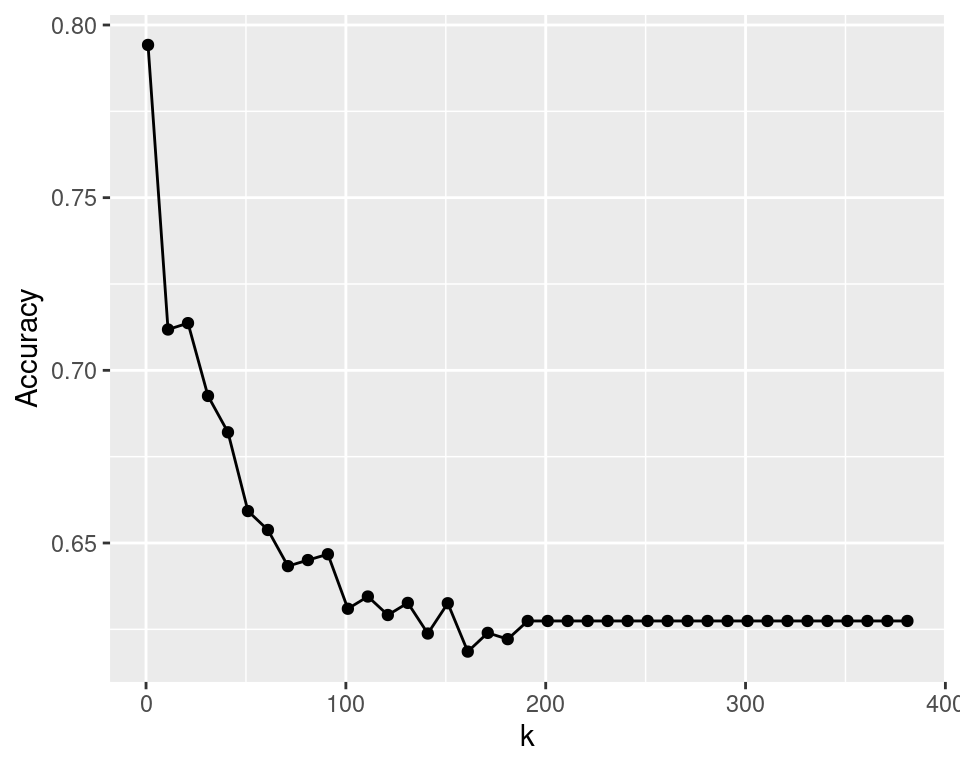
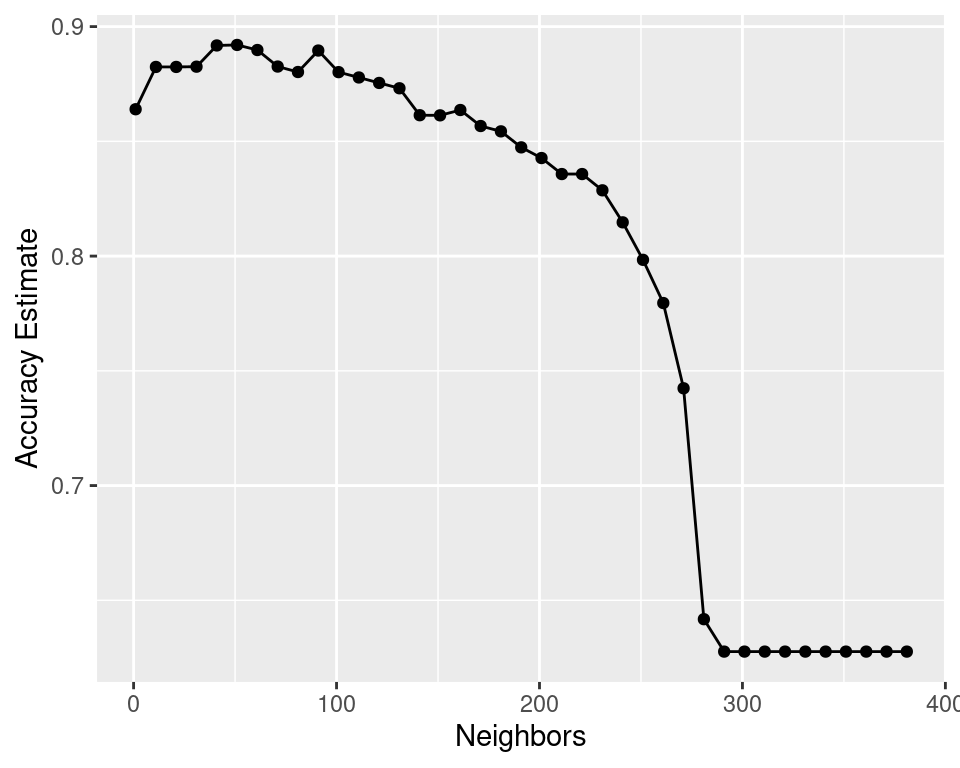
finished clsfcn II tidymodels update: tuning params

diff --git a/docs/classification-continued.html b/docs/classification-continued.html
@@ -26,7 +26,7 @@
 <meta name="author" content="Melissa Lee" />
 
 
-<meta name="date" content="2020-07-14" />
+<meta name="date" content="2020-07-15" />
 
   <meta name="viewport" content="width=device-width, initial-scale=1" />
   <meta name="apple-mobile-web-app-capable" content="yes" />
@@ -699,10 +699,11 @@ cross-validation. Cross-validation uses a random process to select how to partit
 <p>The <code>collect_metrics</code> function is used to aggregate the mean and <em>standard error</em>
 of the classifier’s validation accuracy across the folds. The standard error is
 a measure of how uncertain we are in the mean value. A detailed treatment of this
-is beyond the scope of this textbook; but roughly, if your estimated mean (that
+is beyond the scope of this chapter; but roughly, if your estimated mean (that
 the <code>collect_metrics</code> function gives you) is 0.88 and standard
 error is 0.02, you can expect the <em>true</em> average accuracy of the
-classifier to be somewhere between 0.86 and 0.90.</p>
+classifier to be somewhere roughly between 0.86 and 0.90 (although it may
+fall outside this range).</p>
 <div class="sourceCode" id="cb22"><pre class="sourceCode r"><code class="sourceCode r"><span id="cb22-1"><a href="classification-continued.html#cb22-1"></a>knn_fit <span class="op">%&gt;%</span><span class="st"> </span><span class="kw">collect_metrics</span>()</span></code></pre></div>
 <pre><code>## # A tibble: 2 x 5
 ##   .metric  .estimator  mean     n std_err
@@ -739,92 +740,99 @@ accuracy of our classifier is somewhere around 88%. Whether 88% is good or not
 depends entirely on the downstream application of the data analysis. In the
 present situation, we are trying to predict a tumour diagnosis, with expensive,
 damaging chemo/radiation therapy or patient death as potential consequences of
-misprediction. Hence, we’d like to do better than 88% for this application. In
-order to improve our classifier, we have one choice of parameter: the number of
+misprediction. Hence, we’d like to do better than 88% for this application.</p>
+<p>In order to improve our classifier, we have one choice of parameter: the number of
 neighbours, <span class="math inline">\(K\)</span>. Since cross-validation helps us evaluate the accuracy of our
 classifier, we can use cross-validation to calculate an accuracy for each value
 of <span class="math inline">\(K\)</span> in a reasonable range, and then pick the value of <span class="math inline">\(K\)</span> that gives us the
-best accuracy. In R, we can accomplish this <em>tuning</em> by passing a vector of
-values for <span class="math inline">\(K\)</span> to the <code>tuneGrid</code> argument of <code>train</code>.</p>
-<div class="sourceCode" id="cb26"><pre class="sourceCode r"><code class="sourceCode r"><span id="cb26-1"><a href="classification-continued.html#cb26-1"></a>train_control &lt;-<span class="st"> </span><span class="kw">trainControl</span>(<span class="dt">method=</span><span class="st">&quot;cv&quot;</span>, <span class="dt">number =</span> <span class="dv">10</span>)</span>
-<span id="cb26-2"><a href="classification-continued.html#cb26-2"></a>k =<span class="st"> </span><span class="kw">data.frame</span>(<span class="dt">k =</span> <span class="kw">c</span>(<span class="dv">1</span>, <span class="dv">3</span>, <span class="dv">5</span>, <span class="dv">7</span>, <span class="dv">9</span>, <span class="dv">11</span>, <span class="dv">13</span>, <span class="dv">15</span>, <span class="dv">17</span>))</span>
-<span id="cb26-3"><a href="classification-continued.html#cb26-3"></a></span>
-<span id="cb26-4"><a href="classification-continued.html#cb26-4"></a><span class="kw">set.seed</span>(<span class="dv">1234</span>)</span>
-<span id="cb26-5"><a href="classification-continued.html#cb26-5"></a>knn_model_cv_10fold &lt;-<span class="st"> </span><span class="kw">train</span>(<span class="dt">x =</span> X_train_total, <span class="dt">y =</span> Y_train_total, <span class="dt">method =</span> <span class="st">&quot;knn&quot;</span>, <span class="dt">tuneGrid =</span> k, <span class="dt">trControl =</span> train_control)</span>
-<span id="cb26-6"><a href="classification-continued.html#cb26-6"></a>knn_model_cv_10fold</span></code></pre></div>
-<pre><code>## k-Nearest Neighbors 
-## 
-## 569 samples
-##  11 predictor
-##   2 classes: &#39;M&#39;, &#39;B&#39; 
-## 
-## No pre-processing
-## Resampling: Cross-Validated (10 fold) 
-## Summary of sample sizes: 512, 513, 512, 512, 512, 512, ... 
-## Resampling results across tuning parameters:
-## 
-##   k   Accuracy   Kappa    
-##    1  0.7942248  0.5477059
-##    3  0.7312808  0.3896490
-##    5  0.7224138  0.3595184
-##    7  0.7048678  0.3140628
-##    9  0.6960926  0.2755558
-##   11  0.7100683  0.2998363
-##   13  0.6995711  0.2759814
-##   15  0.6995711  0.2706774
-##   17  0.7065898  0.2842655
-## 
-## Accuracy was used to select the optimal model using the largest value.
-## The final value used for the model was k = 1.</code></pre>
-<p>Although <code>caret</code> provides a selection of <span class="math inline">\(K=13\)</span> for us by maximizing the
-accuracy estimate, it is helpful regardless to visualize the accuracy as we
-increase <span class="math inline">\(K\)</span>. We can access the results from the cross-validation via
-the<code>results</code> attribute of the <code>train</code> object (our classifier).</p>
-<div class="sourceCode" id="cb28"><pre class="sourceCode r"><code class="sourceCode r"><span id="cb28-1"><a href="classification-continued.html#cb28-1"></a>accuracies &lt;-<span class="st"> </span>knn_model_cv_10fold<span class="op">$</span>results</span>
-<span id="cb28-2"><a href="classification-continued.html#cb28-2"></a>accuracies </span></code></pre></div>
-<pre><code>##    k  Accuracy     Kappa AccuracySD    KappaSD
-## 1  1 0.7942248 0.5477059 0.04541515 0.09755692
-## 2  3 0.7312808 0.3896490 0.04807517 0.10686014
-## 3  5 0.7224138 0.3595184 0.04046755 0.08472153
-## 4  7 0.7048678 0.3140628 0.03382200 0.06669857
-## 5  9 0.6960926 0.2755558 0.03932843 0.08751456
-## 6 11 0.7100683 0.2998363 0.02955304 0.07052050
-## 7 13 0.6995711 0.2759814 0.03129697 0.07865112
-## 8 15 0.6995711 0.2706774 0.03812284 0.09339909
-## 9 17 0.7065898 0.2842655 0.03884811 0.09727276</code></pre>
-<p>Now we can plot accuracy versus <span class="math inline">\(K\)</span>:</p>
-<div class="sourceCode" id="cb30"><pre class="sourceCode r"><code class="sourceCode r"><span id="cb30-1"><a href="classification-continued.html#cb30-1"></a>accuracy_vs_k &lt;-<span class="st"> </span><span class="kw">ggplot</span>(accuracies, <span class="kw">aes</span>(<span class="dt">x =</span> k, <span class="dt">y =</span> Accuracy)) <span class="op">+</span></span>
-<span id="cb30-2"><a href="classification-continued.html#cb30-2"></a><span class="st">  </span><span class="kw">geom_point</span>() <span class="op">+</span></span>
-<span id="cb30-3"><a href="classification-continued.html#cb30-3"></a><span class="st">  </span><span class="kw">geom_line</span>()</span>
-<span id="cb30-4"><a href="classification-continued.html#cb30-4"></a>accuracy_vs_k</span></code></pre></div>
+best accuracy. The <code>tidymodels</code> package collection provides a very simple
+syntax for tuning models: each parameter in the model to be tuned should be specified
+as <code>tune()</code> in the model specification rather than given a particular value.</p>
+<div class="sourceCode" id="cb26"><pre class="sourceCode r"><code class="sourceCode r"><span id="cb26-1"><a href="classification-continued.html#cb26-1"></a>knn_spec &lt;-<span class="st"> </span><span class="kw">nearest_neighbor</span>(<span class="dt">weight_func =</span> <span class="st">&quot;rectangular&quot;</span>, <span class="dt">neighbors =</span> <span class="kw">tune</span>()) <span class="op">%&gt;%</span></span>
+<span id="cb26-2"><a href="classification-continued.html#cb26-2"></a><span class="st">       </span><span class="kw">set_engine</span>(<span class="st">&quot;kknn&quot;</span>) <span class="op">%&gt;%</span></span>
+<span id="cb26-3"><a href="classification-continued.html#cb26-3"></a><span class="st">       </span><span class="kw">set_mode</span>(<span class="st">&quot;classification&quot;</span>)</span></code></pre></div>
+<p>Then instead of using <code>fit</code> or <code>fit_resamples</code>, we will use the <code>tune_grid</code> function
+to fit the model for each value in a range of parameter values. Here the <code>grid = 10</code>
+argument specifies that the tuning should try 10 values of the number of neighbours
+<span class="math inline">\(K\)</span> when tuning. We set the seed prior to tuning to ensure results are reproducible:</p>
+<div class="sourceCode" id="cb27"><pre class="sourceCode r"><code class="sourceCode r"><span id="cb27-1"><a href="classification-continued.html#cb27-1"></a><span class="kw">set.seed</span>(<span class="dv">1</span>)</span>
+<span id="cb27-2"><a href="classification-continued.html#cb27-2"></a>knn_results &lt;-<span class="st"> </span><span class="kw">workflow</span>() <span class="op">%&gt;%</span></span>
+<span id="cb27-3"><a href="classification-continued.html#cb27-3"></a><span class="st">                 </span><span class="kw">add_recipe</span>(cancer_recipe) <span class="op">%&gt;%</span></span>
+<span id="cb27-4"><a href="classification-continued.html#cb27-4"></a><span class="st">                 </span><span class="kw">add_model</span>(knn_spec) <span class="op">%&gt;%</span></span>
+<span id="cb27-5"><a href="classification-continued.html#cb27-5"></a><span class="st">                 </span><span class="kw">tune_grid</span>(<span class="dt">resamples =</span> cancer_vfold, <span class="dt">grid =</span> <span class="dv">10</span>) <span class="op">%&gt;%</span></span>
+<span id="cb27-6"><a href="classification-continued.html#cb27-6"></a><span class="st">                 </span><span class="kw">collect_metrics</span>()</span>
+<span id="cb27-7"><a href="classification-continued.html#cb27-7"></a>knn_results</span></code></pre></div>
+<pre><code>## # A tibble: 20 x 6
+##    neighbors .metric  .estimator  mean     n std_err
+##        &lt;int&gt; &lt;chr&gt;    &lt;chr&gt;      &lt;dbl&gt; &lt;int&gt;   &lt;dbl&gt;
+##  1         2 accuracy binary     0.864    10 0.0167 
+##  2         2 roc_auc  binary     0.897    10 0.0127 
+##  3         3 accuracy binary     0.885    10 0.0104 
+##  4         3 roc_auc  binary     0.927    10 0.0111 
+##  5         5 accuracy binary     0.890    10 0.0136 
+##  6         5 roc_auc  binary     0.927    10 0.00960
+##  7         6 accuracy binary     0.890    10 0.0136 
+##  8         6 roc_auc  binary     0.930    10 0.0111 
+##  9         7 accuracy binary     0.890    10 0.00966
+## 10         7 roc_auc  binary     0.931    10 0.0106 
+## 11         9 accuracy binary     0.887    10 0.0104 
+## 12         9 roc_auc  binary     0.935    10 0.0132 
+## 13        10 accuracy binary     0.887    10 0.0104 
+## 14        10 roc_auc  binary     0.934    10 0.0130 
+## 15        12 accuracy binary     0.882    10 0.0164 
+## 16        12 roc_auc  binary     0.940    10 0.0113 
+## 17        13 accuracy binary     0.885    10 0.0170 
+## 18        13 roc_auc  binary     0.939    10 0.0118 
+## 19        15 accuracy binary     0.873    10 0.0153 
+## 20        15 roc_auc  binary     0.940    10 0.0103</code></pre>
+<p>We can select the best value of the number of neighbours (i.e., the one that results
+in the highest classifier accuracy estimate) by plotting the accuracy versus <span class="math inline">\(K\)</span>:</p>
+<div class="sourceCode" id="cb29"><pre class="sourceCode r"><code class="sourceCode r"><span id="cb29-1"><a href="classification-continued.html#cb29-1"></a>accuracies &lt;-<span class="st"> </span>knn_results <span class="op">%&gt;%</span></span>
+<span id="cb29-2"><a href="classification-continued.html#cb29-2"></a><span class="st">                 </span><span class="kw">filter</span>(.metric <span class="op">==</span><span class="st"> &#39;accuracy&#39;</span>)</span>
+<span id="cb29-3"><a href="classification-continued.html#cb29-3"></a></span>
+<span id="cb29-4"><a href="classification-continued.html#cb29-4"></a>accuracy_vs_k &lt;-<span class="st"> </span><span class="kw">ggplot</span>(accuracies, <span class="kw">aes</span>(<span class="dt">x =</span> neighbors, <span class="dt">y =</span> mean)) <span class="op">+</span></span>
+<span id="cb29-5"><a href="classification-continued.html#cb29-5"></a><span class="st">  </span><span class="kw">geom_point</span>() <span class="op">+</span></span>
+<span id="cb29-6"><a href="classification-continued.html#cb29-6"></a><span class="st">  </span><span class="kw">geom_line</span>() <span class="op">+</span></span>
+<span id="cb29-7"><a href="classification-continued.html#cb29-7"></a><span class="st">  </span><span class="kw">labs</span>(<span class="dt">x =</span> <span class="st">&#39;Neighbors&#39;</span>, <span class="dt">y =</span> <span class="st">&#39;Accuracy Estimate&#39;</span>)</span>
+<span id="cb29-8"><a href="classification-continued.html#cb29-8"></a>accuracy_vs_k</span></code></pre></div>
 <p><img src="_main_files/figure-html/06-find-k-1.png" width="480" /></p>
-<p>Based off of the visualization above, we might agree with <code>caret</code>’s choice of
-<span class="math inline">\(K=13\)</span>. But as you can see, there is no exact or perfect answer here; any
-choice between <span class="math inline">\(K=9\)</span> and <span class="math inline">\(K = 17\)</span> would be reasonably justified. Remember: the
+<p>This visualization suggests that <span class="math inline">\(K = 7\)</span> provides the highest accuracy.
+But as you can see, there is no exact or perfect answer here;
+any selection between <span class="math inline">\(K = 3\)</span> and <span class="math inline">\(13\)</span> would be reasonably justified, as all
+of these differ in classifier accuracy by less than 1%. Remember: the
 values you see on this plot are <em>estimates</em> of the true accuracy of our
-classifier. Although the <span class="math inline">\(K=13\)</span> value is higher than the others on this plot,
+classifier. Although the <span class="math inline">\(K=7\)</span> value is higher than the others on this plot,
 that doesn’t mean the classifier is actually more accurate with this parameter
 value! Generally, when selecting <span class="math inline">\(K\)</span> (and other parameters for other predictive
 models), we are looking for a value where:</p>
 <ul>
 <li>we get roughly optimal accuracy, so that our model will likely be accurate</li>
-<li>changing the value to a nearby one (e.g. from <span class="math inline">\(K=13\)</span> to 12 or 14) doesn’t decrease accuracy too much, so that our choice is reliable in the presence of uncertainty</li>
+<li>changing the value to a nearby one (e.g. from <span class="math inline">\(K=7\)</span> to 6 or 8) doesn’t decrease accuracy too much, so that our choice is reliable in the presence of uncertainty</li>
 <li>the cost of training the model is not prohibitive (e.g., in our situation, if <span class="math inline">\(K\)</span> is too large, predicting becomes expensive!)</li>
 </ul>
 </div>
 <div id="underoverfitting" class="section level3">
 <h3><span class="header-section-number">7.4.3</span> Under/overfitting</h3>
 <p>To build a bit more intuition, what happens if we keep increasing the number of neighbours <span class="math inline">\(K\)</span>? In fact, the accuracy
-actually starts to decrease! Take a look as the plot below as we vary <span class="math inline">\(K\)</span> from 1 to almost the number of observations in the data set:</p>
-<div class="sourceCode" id="cb31"><pre class="sourceCode r"><code class="sourceCode r"><span id="cb31-1"><a href="classification-continued.html#cb31-1"></a>train_control &lt;-<span class="st"> </span><span class="kw">trainControl</span>(<span class="dt">method=</span><span class="st">&quot;cv&quot;</span>, <span class="dt">number =</span> <span class="dv">10</span>)</span>
-<span id="cb31-2"><a href="classification-continued.html#cb31-2"></a>k_lots =<span class="st"> </span><span class="kw">data.frame</span>(<span class="dt">k =</span> <span class="kw">seq</span>(<span class="dt">from =</span> <span class="dv">1</span>, <span class="dt">to =</span> <span class="dv">385</span>, <span class="dt">by =</span> <span class="dv">10</span>))</span>
-<span id="cb31-3"><a href="classification-continued.html#cb31-3"></a><span class="kw">set.seed</span>(<span class="dv">1234</span>)</span>
-<span id="cb31-4"><a href="classification-continued.html#cb31-4"></a>knn_model_cv_10fold_lots &lt;-<span class="st"> </span><span class="kw">train</span>(<span class="dt">x =</span> X_train_total, <span class="dt">y =</span> Y_train_total, <span class="dt">method =</span> <span class="st">&quot;knn&quot;</span>, <span class="dt">tuneGrid =</span> k_lots, <span class="dt">trControl =</span> train_control)</span>
-<span id="cb31-5"><a href="classification-continued.html#cb31-5"></a>accuracies_lots &lt;-<span class="st"> </span>knn_model_cv_10fold_lots<span class="op">$</span>results</span>
-<span id="cb31-6"><a href="classification-continued.html#cb31-6"></a>accuracy_vs_k_lots &lt;-<span class="st"> </span><span class="kw">ggplot</span>(accuracies_lots, <span class="kw">aes</span>(<span class="dt">x =</span> k, <span class="dt">y =</span> Accuracy)) <span class="op">+</span></span>
-<span id="cb31-7"><a href="classification-continued.html#cb31-7"></a><span class="st">  </span><span class="kw">geom_point</span>() <span class="op">+</span></span>
-<span id="cb31-8"><a href="classification-continued.html#cb31-8"></a><span class="st">  </span><span class="kw">geom_line</span>()</span>
-<span id="cb31-9"><a href="classification-continued.html#cb31-9"></a>accuracy_vs_k_lots</span></code></pre></div>
+actually starts to decrease! Rather than setting <code>grid = 10</code> and letting <code>tidymodels</code> decide what values of <span class="math inline">\(K\)</span> to try,
+let’s specify the values explicitly by creating a data frame with a <code>neighbors</code> variable.
+Take a look as the plot below as we vary <span class="math inline">\(K\)</span> from 1 to almost the number of observations in the data set:</p>
+<div class="sourceCode" id="cb30"><pre class="sourceCode r"><code class="sourceCode r"><span id="cb30-1"><a href="classification-continued.html#cb30-1"></a><span class="kw">set.seed</span>(<span class="dv">1</span>)</span>
+<span id="cb30-2"><a href="classification-continued.html#cb30-2"></a>k_lots =<span class="st"> </span><span class="kw">tibble</span>(<span class="dt">neighbors =</span> <span class="kw">seq</span>(<span class="dt">from =</span> <span class="dv">1</span>, <span class="dt">to =</span> <span class="dv">385</span>, <span class="dt">by =</span> <span class="dv">10</span>))</span>
+<span id="cb30-3"><a href="classification-continued.html#cb30-3"></a>knn_results &lt;-<span class="st"> </span><span class="kw">workflow</span>() <span class="op">%&gt;%</span></span>
+<span id="cb30-4"><a href="classification-continued.html#cb30-4"></a><span class="st">                 </span><span class="kw">add_recipe</span>(cancer_recipe) <span class="op">%&gt;%</span></span>
+<span id="cb30-5"><a href="classification-continued.html#cb30-5"></a><span class="st">                 </span><span class="kw">add_model</span>(knn_spec) <span class="op">%&gt;%</span></span>
+<span id="cb30-6"><a href="classification-continued.html#cb30-6"></a><span class="st">                 </span><span class="kw">tune_grid</span>(<span class="dt">resamples =</span> cancer_vfold, <span class="dt">grid =</span> k_lots) <span class="op">%&gt;%</span></span>
+<span id="cb30-7"><a href="classification-continued.html#cb30-7"></a><span class="st">                 </span><span class="kw">collect_metrics</span>()</span>
+<span id="cb30-8"><a href="classification-continued.html#cb30-8"></a></span>
+<span id="cb30-9"><a href="classification-continued.html#cb30-9"></a>accuracies &lt;-<span class="st"> </span>knn_results <span class="op">%&gt;%</span></span>
+<span id="cb30-10"><a href="classification-continued.html#cb30-10"></a><span class="st">                 </span><span class="kw">filter</span>(.metric <span class="op">==</span><span class="st"> &#39;accuracy&#39;</span>)</span>
+<span id="cb30-11"><a href="classification-continued.html#cb30-11"></a></span>
+<span id="cb30-12"><a href="classification-continued.html#cb30-12"></a>accuracy_vs_k_lots &lt;-<span class="st"> </span><span class="kw">ggplot</span>(accuracies, <span class="kw">aes</span>(<span class="dt">x =</span> neighbors, <span class="dt">y =</span> mean)) <span class="op">+</span></span>
+<span id="cb30-13"><a href="classification-continued.html#cb30-13"></a><span class="st">  </span><span class="kw">geom_point</span>() <span class="op">+</span></span>
+<span id="cb30-14"><a href="classification-continued.html#cb30-14"></a><span class="st">  </span><span class="kw">geom_line</span>() <span class="op">+</span><span class="st"> </span></span>
+<span id="cb30-15"><a href="classification-continued.html#cb30-15"></a><span class="st">  </span><span class="kw">labs</span>(<span class="dt">x =</span> <span class="st">&#39;Neighbors&#39;</span>, <span class="dt">y =</span> <span class="st">&#39;Accuracy Estimate&#39;</span>)</span>
+<span id="cb30-16"><a href="classification-continued.html#cb30-16"></a>accuracy_vs_k_lots</span></code></pre></div>
 <p><img src="_main_files/figure-html/06-lots-of-ks-1.png" width="480" /></p>
 <p><strong>Underfitting:</strong> What is actually happening to our classifier that causes
 this? As we increase the number of neighbours, more and more of the training
@@ -849,6 +857,7 @@ completely different. In general, if the model <em>is influenced too much</em> b
 training data, it is said to <strong>overfit</strong> the data.</p>
 <p>You can see this effect in the plots below as we vary the number of neighbours <span class="math inline">\(K\)</span> in (1, 7, 20, 200):</p>
 <center>
+<img src="_main_files/figure-html/06-decision-grid-K-1.png" width="960" />
 </center>
 </div>
 </div>
@@ -857,12 +866,12 @@ training data, it is said to <strong>overfit</strong> the data.</p>
 <p><strong>Shuffling:</strong> When we split the data into train, test, and validation sets, we
 make the assumption that there is no order to our originally collected data
 set. However, if we think that there might be some order to the original data
-set, then we can randomly shuffle the data before splitting it. The <code>caret</code>
-package’s <code>createDataPartition</code> function does this for us.</p>
+set, then we can randomly shuffle the data before splitting it. The <code>tidymodels</code>
+function <code>initial_split</code> and <code>vfold_cv</code> functions do this for us.</p>
 <p><strong>Stratification:</strong> If the data are imbalanced, we also need to be extra
 careful about splitting the data to ensure that enough of each class ends up in
-each of the train, validation, and test partitions. Luckily, the
-<code>createDataPartition</code> does this for us as well.</p>
+each of the train, validation, and test partitions. The <code>strata</code> argument
+in the <code>initial_split</code> and <code>vfold_cv</code> functions handles this for us too.</p>
 </div>
 <div id="summary" class="section level2">
 <h2><span class="header-section-number">7.6</span> Summary</h2>
@@ -883,13 +892,16 @@ A typical 10-fold cross-validation data set split. <br>Source: <a href="https://
 </figcaption>
 </figure>
 </center>
-<p>The overall workflow for performing K-nearest neighbour classification in <code>caret</code> is as follows:</p>
+<p>The overall workflow for performing K-nearest neighbour classification using <code>tidymodels</code> is as follows:</p>
 <ol style="list-style-type: decimal">
-<li>Use the <code>createDataPartition</code> function to split the data into a training and test set. Put the test set aside for now.</li>
-<li>Use the <code>trainControl</code> function to specify whether to use cross-validation and how many folds</li>
-<li>Use the <code>train</code> function to train and evaluate the classifier for different values of <span class="math inline">\(K\)</span></li>
-<li>Retrain the classifier on <em>all</em> the training data, using the best parameter from the previous step</li>
-<li>Evaluate the estimated accuracy of the classifier on the test set</li>
+<li>Use the <code>initial_split</code> function to split the data into a training and test set. Set the <code>strata</code> argument to the target variable. Put the test set aside for now.</li>
+<li>Use the <code>vfold_cv</code> function to split up the training data for cross validation.</li>
+<li>Create a <code>recipe</code> that specifies the target and predictor variables, as well as preprocessing steps for all variables. Pass the training data as the <code>data</code> argument of the recipe.</li>
+<li>Create a <code>nearest_neighbors</code> model specification, with <code>neighbors = tune()</code>.</li>
+<li>Add the recipe and model specification to a <code>workflow()</code>, and use the <code>tune_grid</code> function on the train/validation splits to estimate the classifier accuracy for a range of <span class="math inline">\(K\)</span> values.</li>
+<li>Pick a value of <span class="math inline">\(K\)</span> that yields a high accuracy estimate that doesn’t change much if you change <span class="math inline">\(K\)</span> to a nearby value.</li>
+<li>Make a new model specification for the best parameter value, and retrain the classifier using the <code>fit</code> function.</li>
+<li>Evaluate the estimated accuracy of the classifier on the test set using the <code>predict</code> function.</li>
 </ol>
 <p><strong>Strengths:</strong></p>
 <ol style="list-style-type: decimal">
